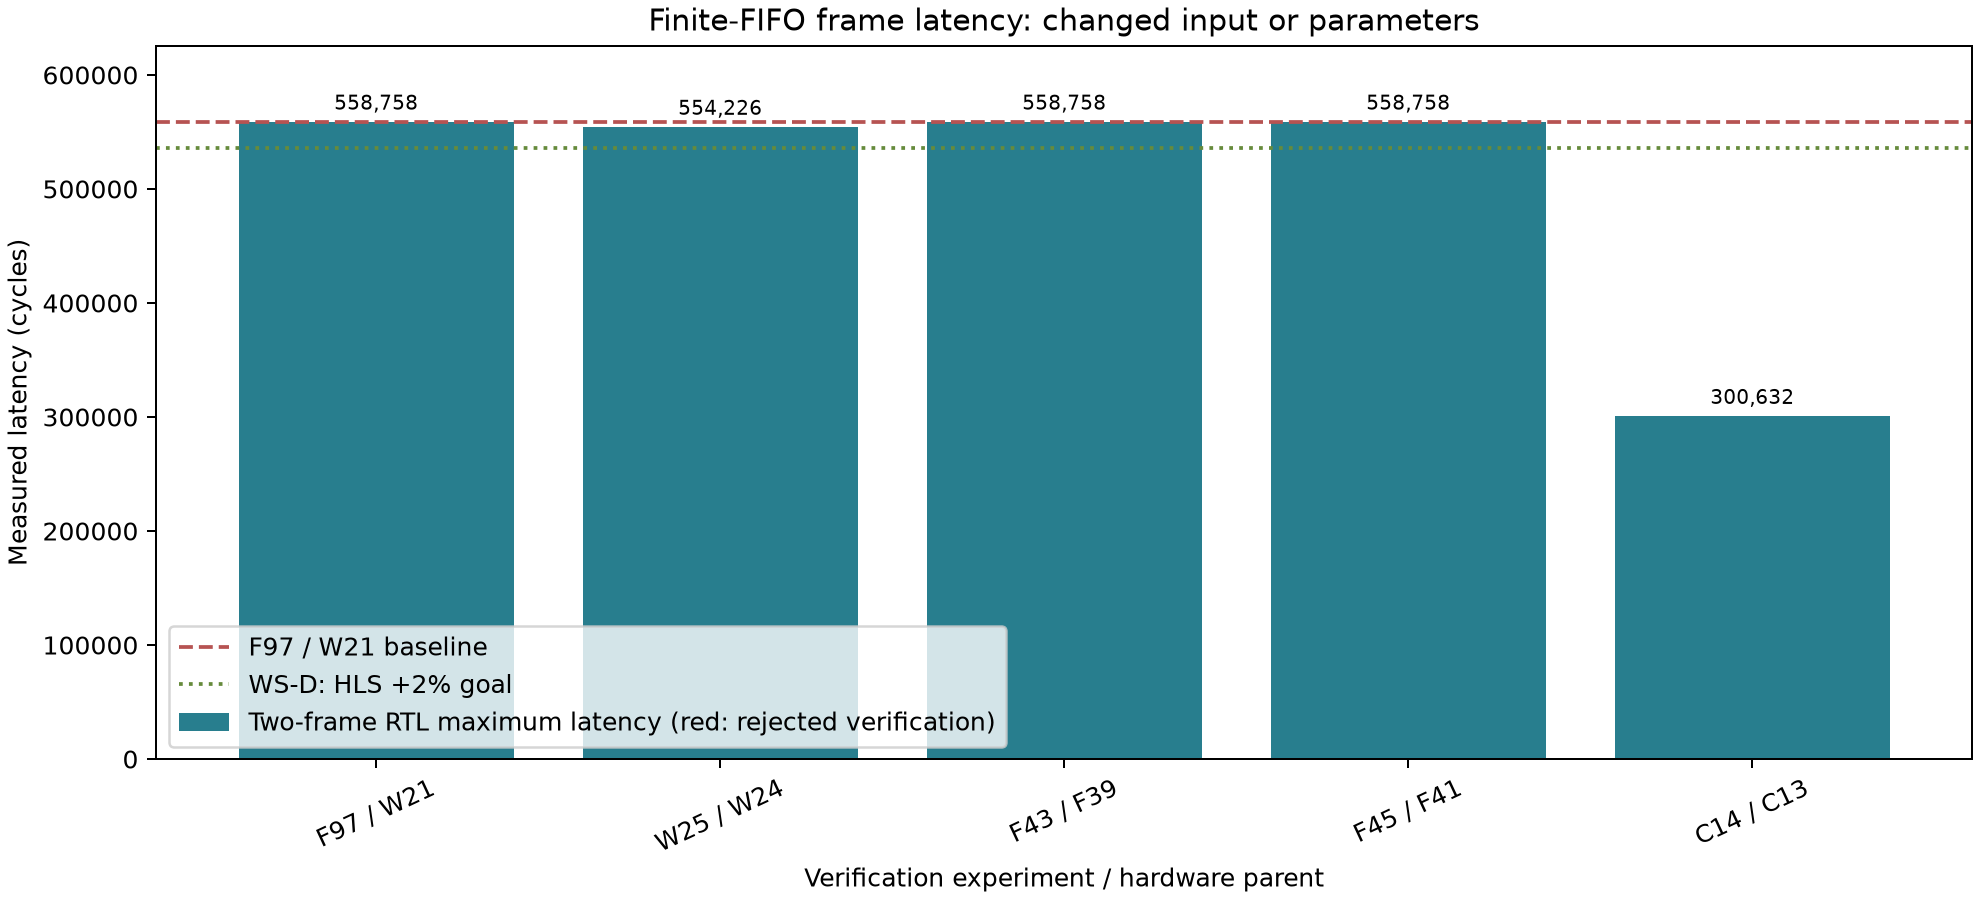
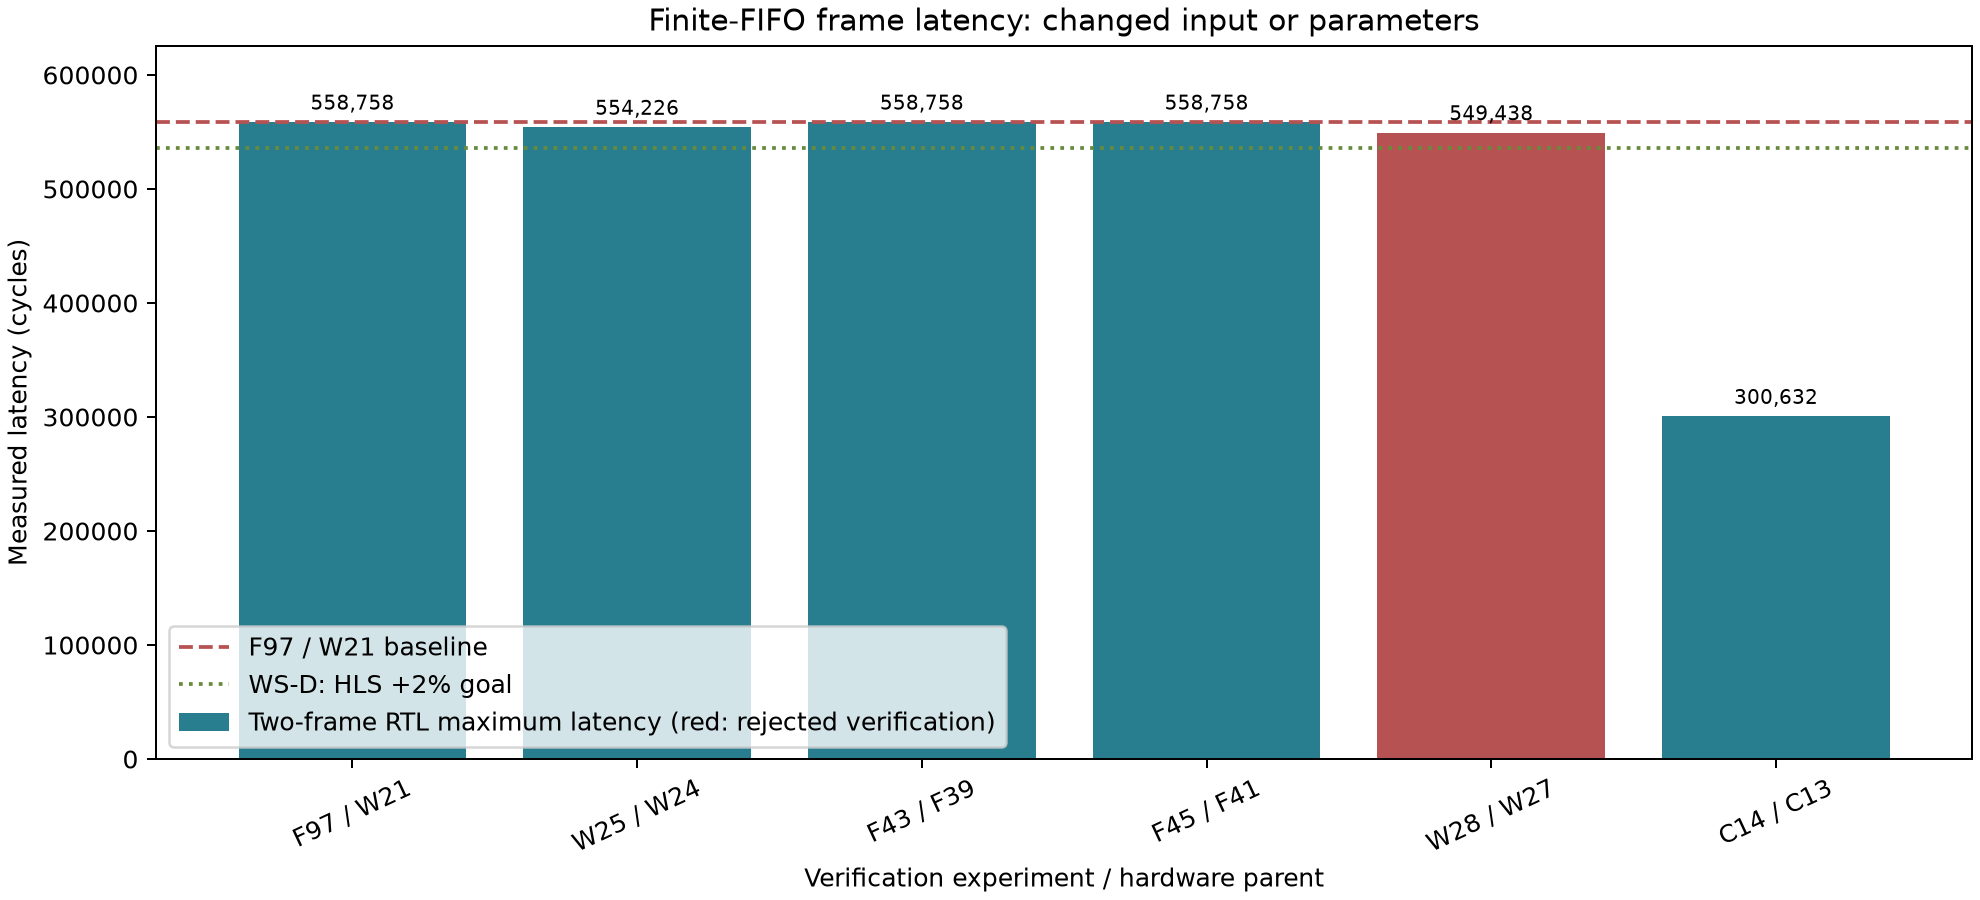
W28 decision_log_and_live_state

diff --git a/experiments/LOG.md b/experiments/LOG.md
@@ -497,6 +497,8 @@
 
 ## Pending Human Decisions / 待人工决策
 
+- 2026-10-12T09:07 UTC W28: FRP 两帧数值与换参数检查均 PASS，实测549438周期比F97少9320（约1.668%）；超出预先提交的±1%门槛553171..564345，按原规则记fail，W30不启动。原计划和全部RTL/FIFO证据保留；明日复核是否另立新实验评估更快FRP，不改本次门槛或历史状态。C14已逐位PASS，300632latency/300661interval；其前置条件满足，C15独立5ns布线已排队。
+
 - 2026-10-12T07:05 UTC 用户明确授权覆盖原预留预算规则：“我觉得不用担心，直接干进去，同时跑两项”。06:58:29 UTC F46 已在 F43 仍运行时准入，两项分别验证 rasterFIFO 与 Conv3 操作数寄存器；不是仅有两个排队任务。调度改为最多两项，预算保留作观察，不再用预算相加拦截第二项，实际可用内存0.5GiB以下中止最近启动项，OOM仍退回串行。W28/F48/C14/F44 的原 Python 等待进程确认未获准入、未启动 Vitis 后迁移到新调度，保留 ID、原计划 SHA256、RTL/init、配置和冻结 testbench；旧 SSH 包装器因任务未完成而退出并报缺 metrics.json，此为等待进程迁移退出，不是 RTL 失败，新进程完成后使用 collect-only 归档。原等待期全局 host_memory 会由恢复进程重新开始采样；它不是工具峰值或性能测量，工具启动后的逐任务 telemetry 单独保存。此前 W23 空闲主机也无法准入的问题已由该授权解决，无需人工重复确认。
 
 - 2026-10-12 F45: FIFO32 的两帧 RTL 功能通过，但558758周期与F97完全相同，未达到535741周期的 WS-D 门槛。feature FIFO 写阻塞903830→801394、峰值深度4→32，消费者读阻塞仍46990，说明缓冲改变背压但未缩短整帧关键调度。详见F45 interpretation 和原始FIFO计数器；不将功能PASS当作加速成功。
